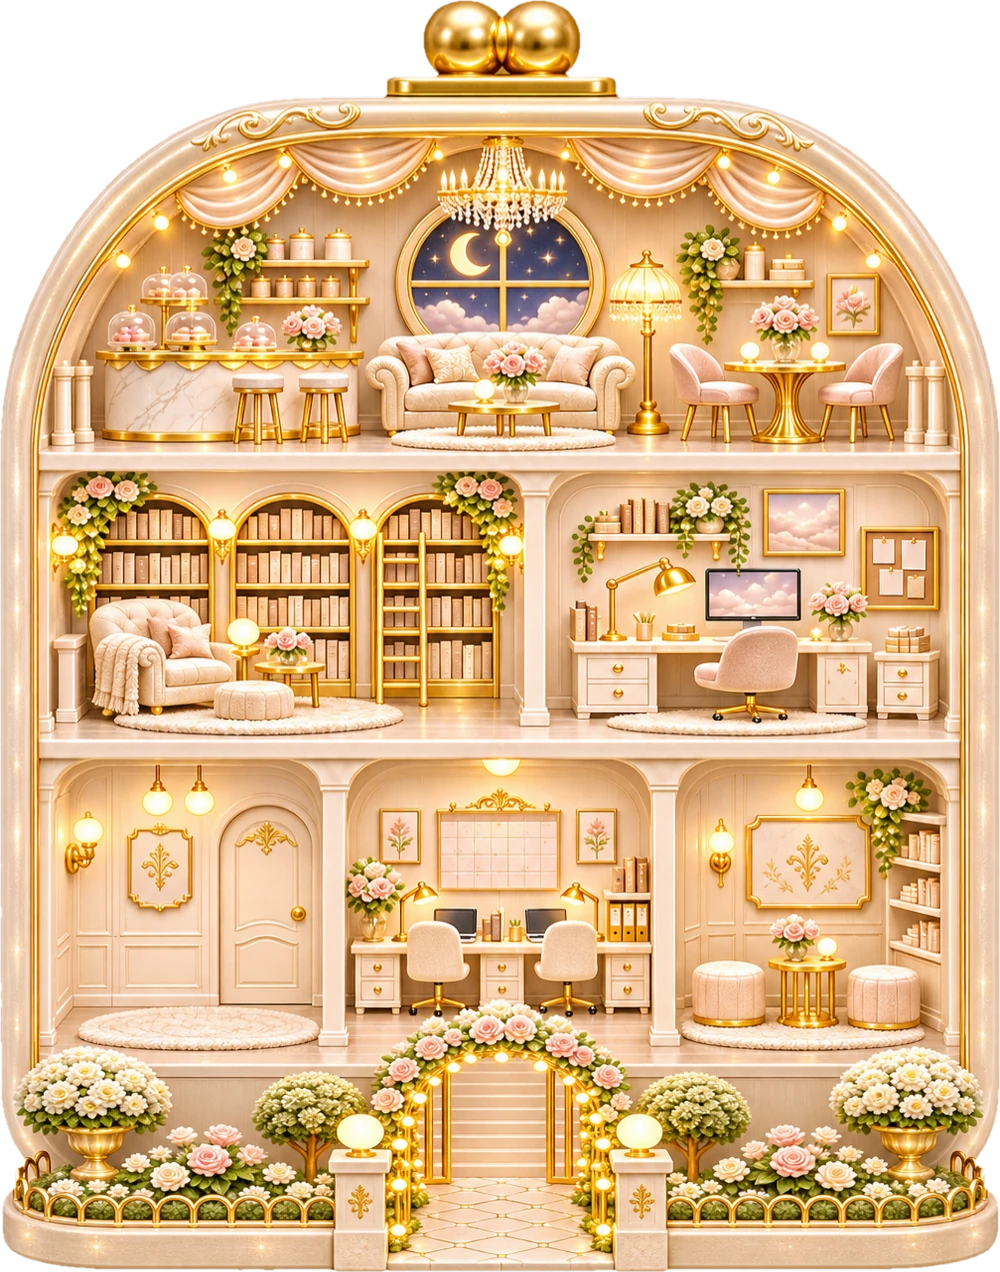
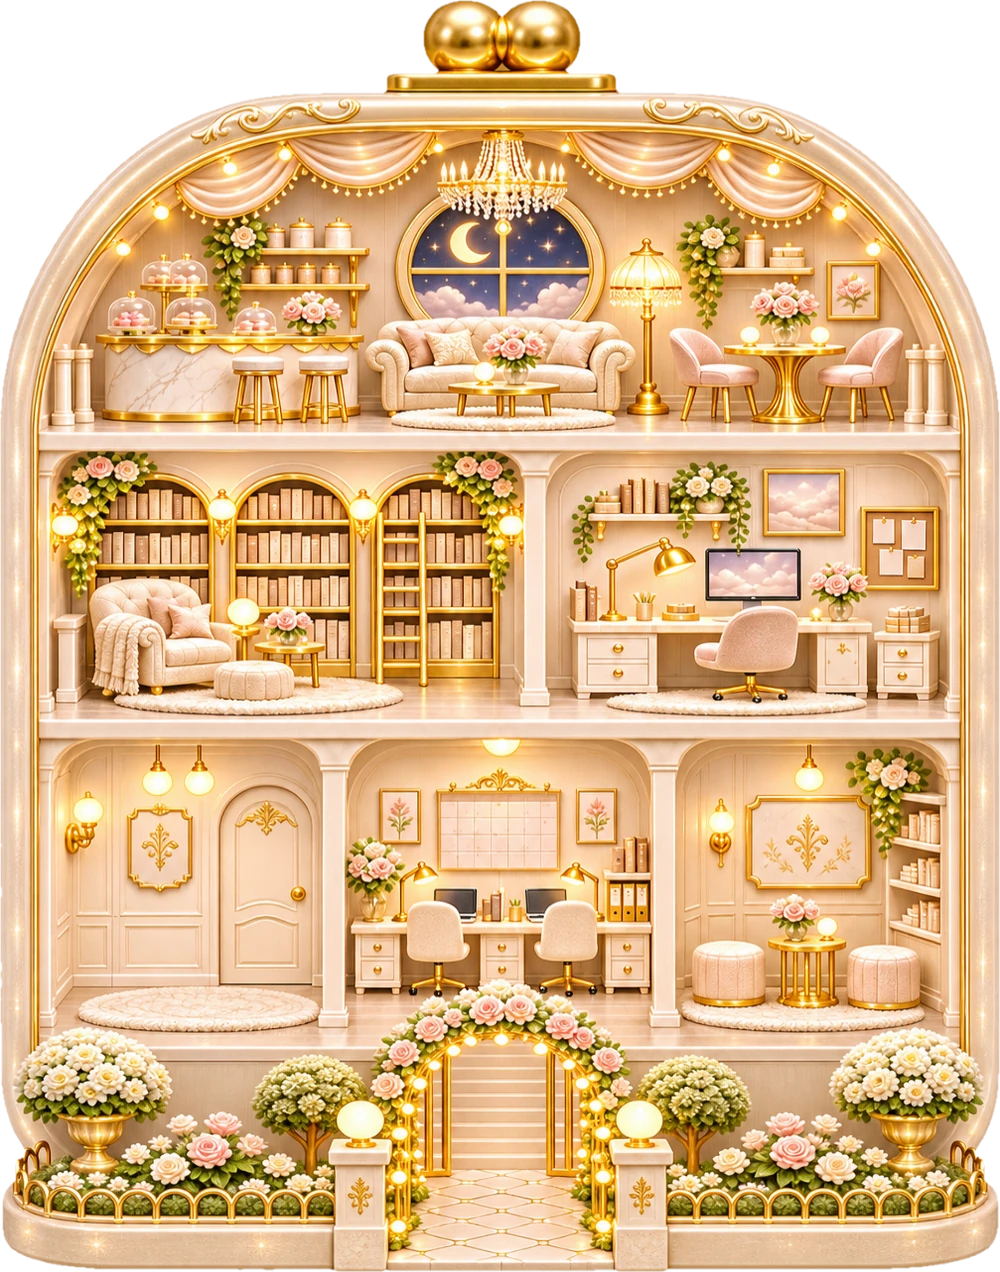
나무·웨딩 하우스: 카펫이 아바타 발에 더 가깝도록(아래 10) 올림
Claude-Session: https://claude.ai/code/session_011wWXPaiuu8PZPFdYFKdKKY

diff --git a/tools/process_assets.py b/tools/process_assets.py
@@ -196,11 +196,11 @@ def skin_house(src, key):
     rgba = trim(rgba)
     rgba = rgba.resize((1000, round(rgba.height * 1000 / rgba.width)), Image.LANCZOS)
     if key in ('wedding', 'wood'):
-        # 그림이 더 길어서 위에서 아래로 전체를 1272에 맞춰 넣어요. 카펫 중앙이 아바타 발 아래 30쯤 (438·720·1032)에 오게
+        # 그림이 더 길어서 위에서 아래로 전체를 1272에 맞춰 넣어요. 카펫 중앙이 아바타 발 아래 10쯤 (418·700·1012)에 오게
         # (원본 1000폭 기준 카펫 중앙: 다락 453 · 2층 765 · 1층 1090)
         H = rgba.height
         src_rug = {'wedding': (453, 765, 1090), 'wood': (405, 685, 945)}[key]  # 원본(1000폭)에서 층 카펫 중앙의 높이
-        pts = [(0, 0), (438, src_rug[0] - 438), (720, src_rug[1] - 720), (1032, src_rug[2] - 1032), (1272, H - 1272)]
+        pts = [(0, 0), (418, src_rug[0] - 418), (700, src_rug[1] - 700), (1012, src_rug[2] - 1012), (1272, H - 1272)]
         return align_floors(rgba.crop((0, 0, 1000, H)).resize((1000, H)), pts, 1272)
     return align_floors(rgba, SKIN_FLOOR_SHIFT[key], 1272)
 
